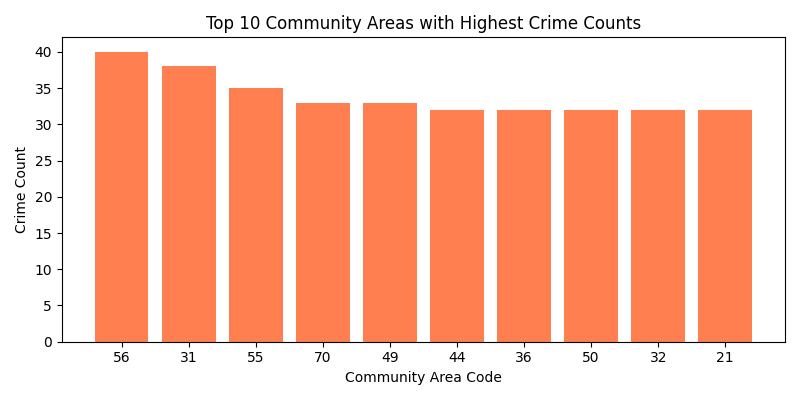
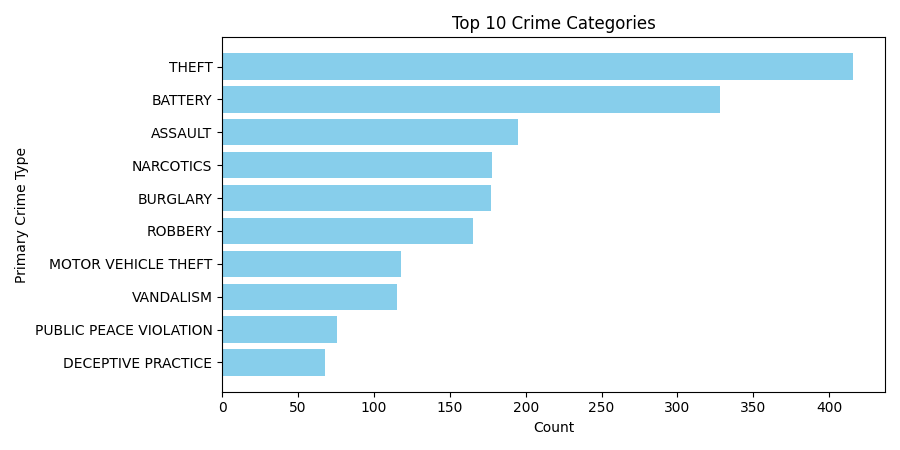
Increase navigation link spacing in style.css

diff --git a/Template/style.css b/Template/style.css
@@ -25,7 +25,7 @@ nav {
 nav a {
     color: white;
     text-decoration: none;
-    margin-right: 15px;
+    margin-right: 25px;
     font-weight: bold;
 }
 
